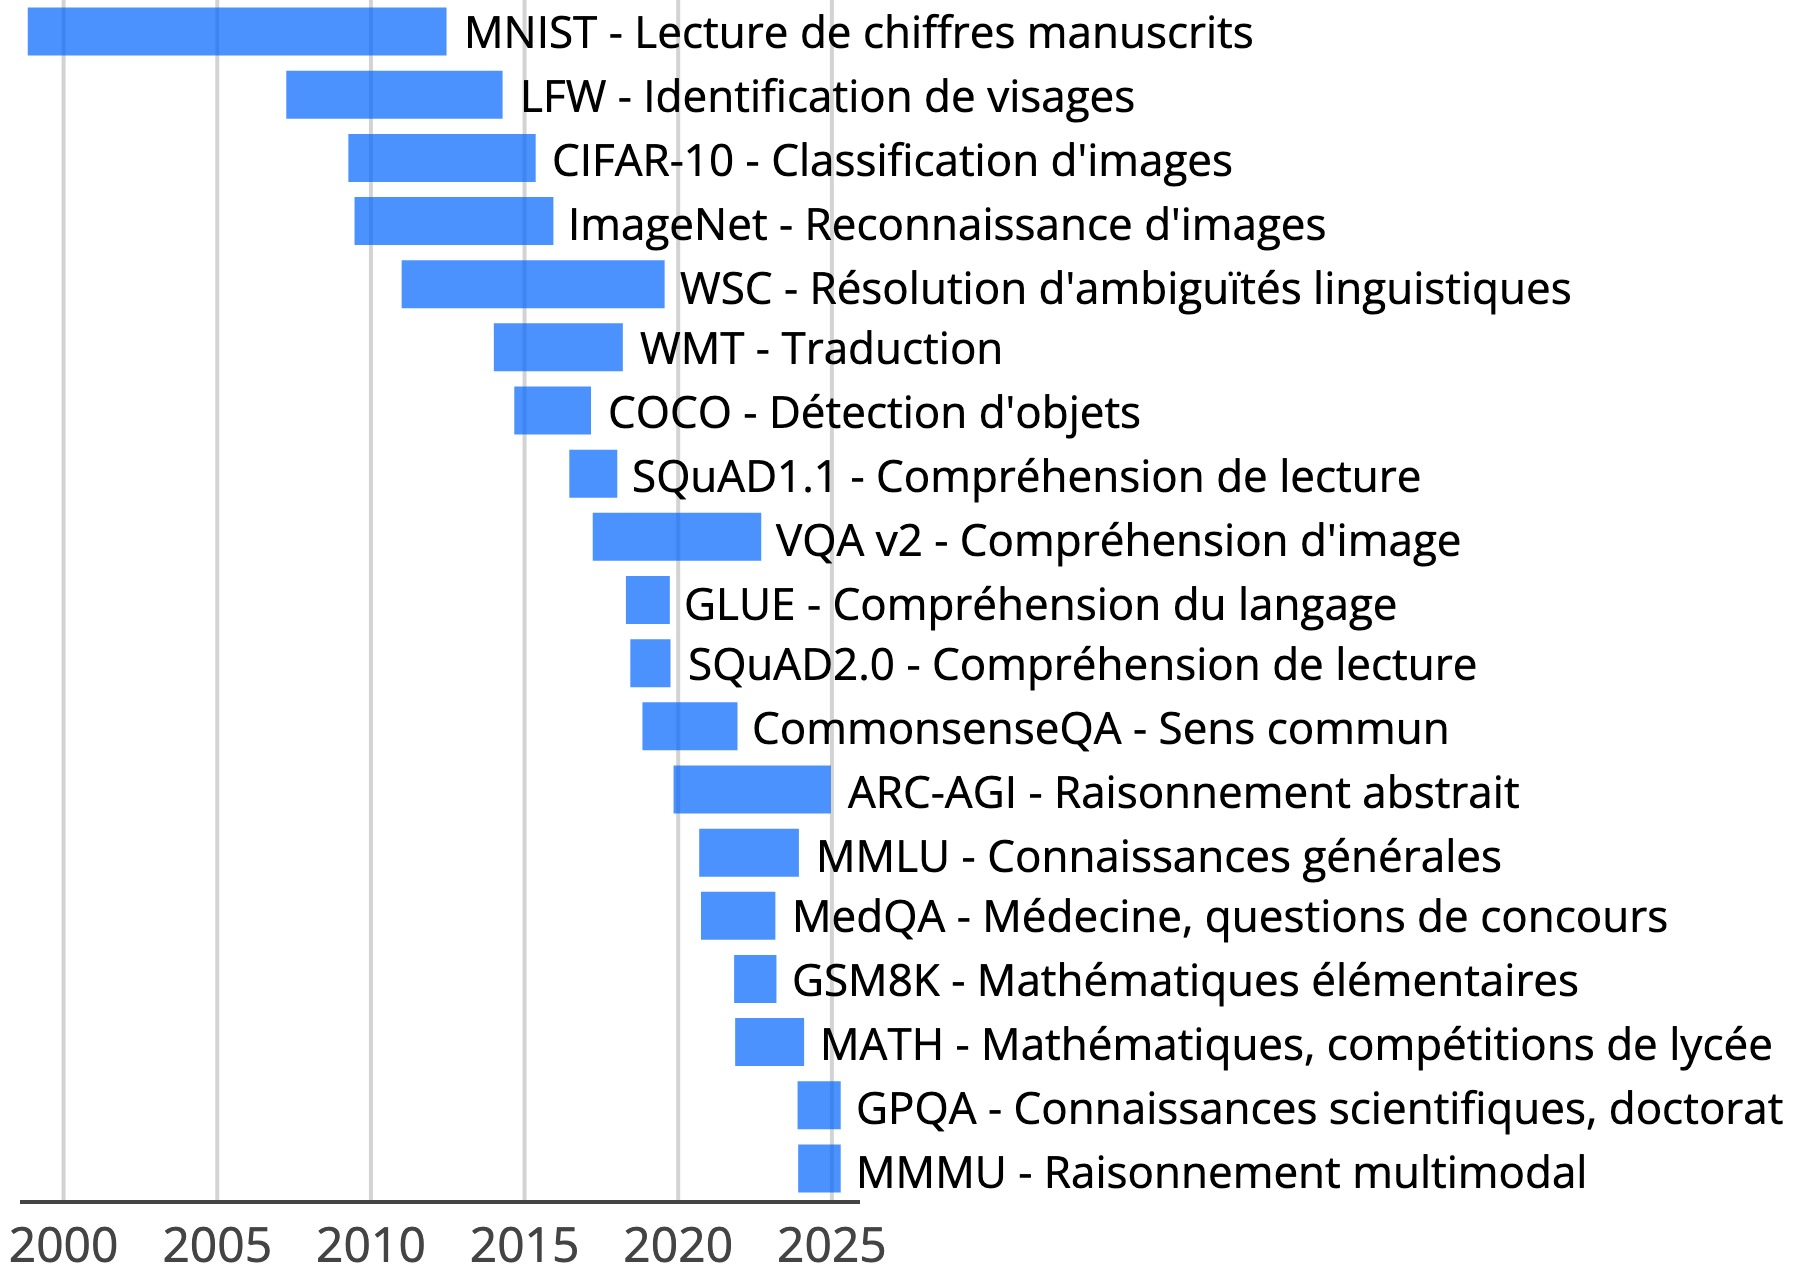
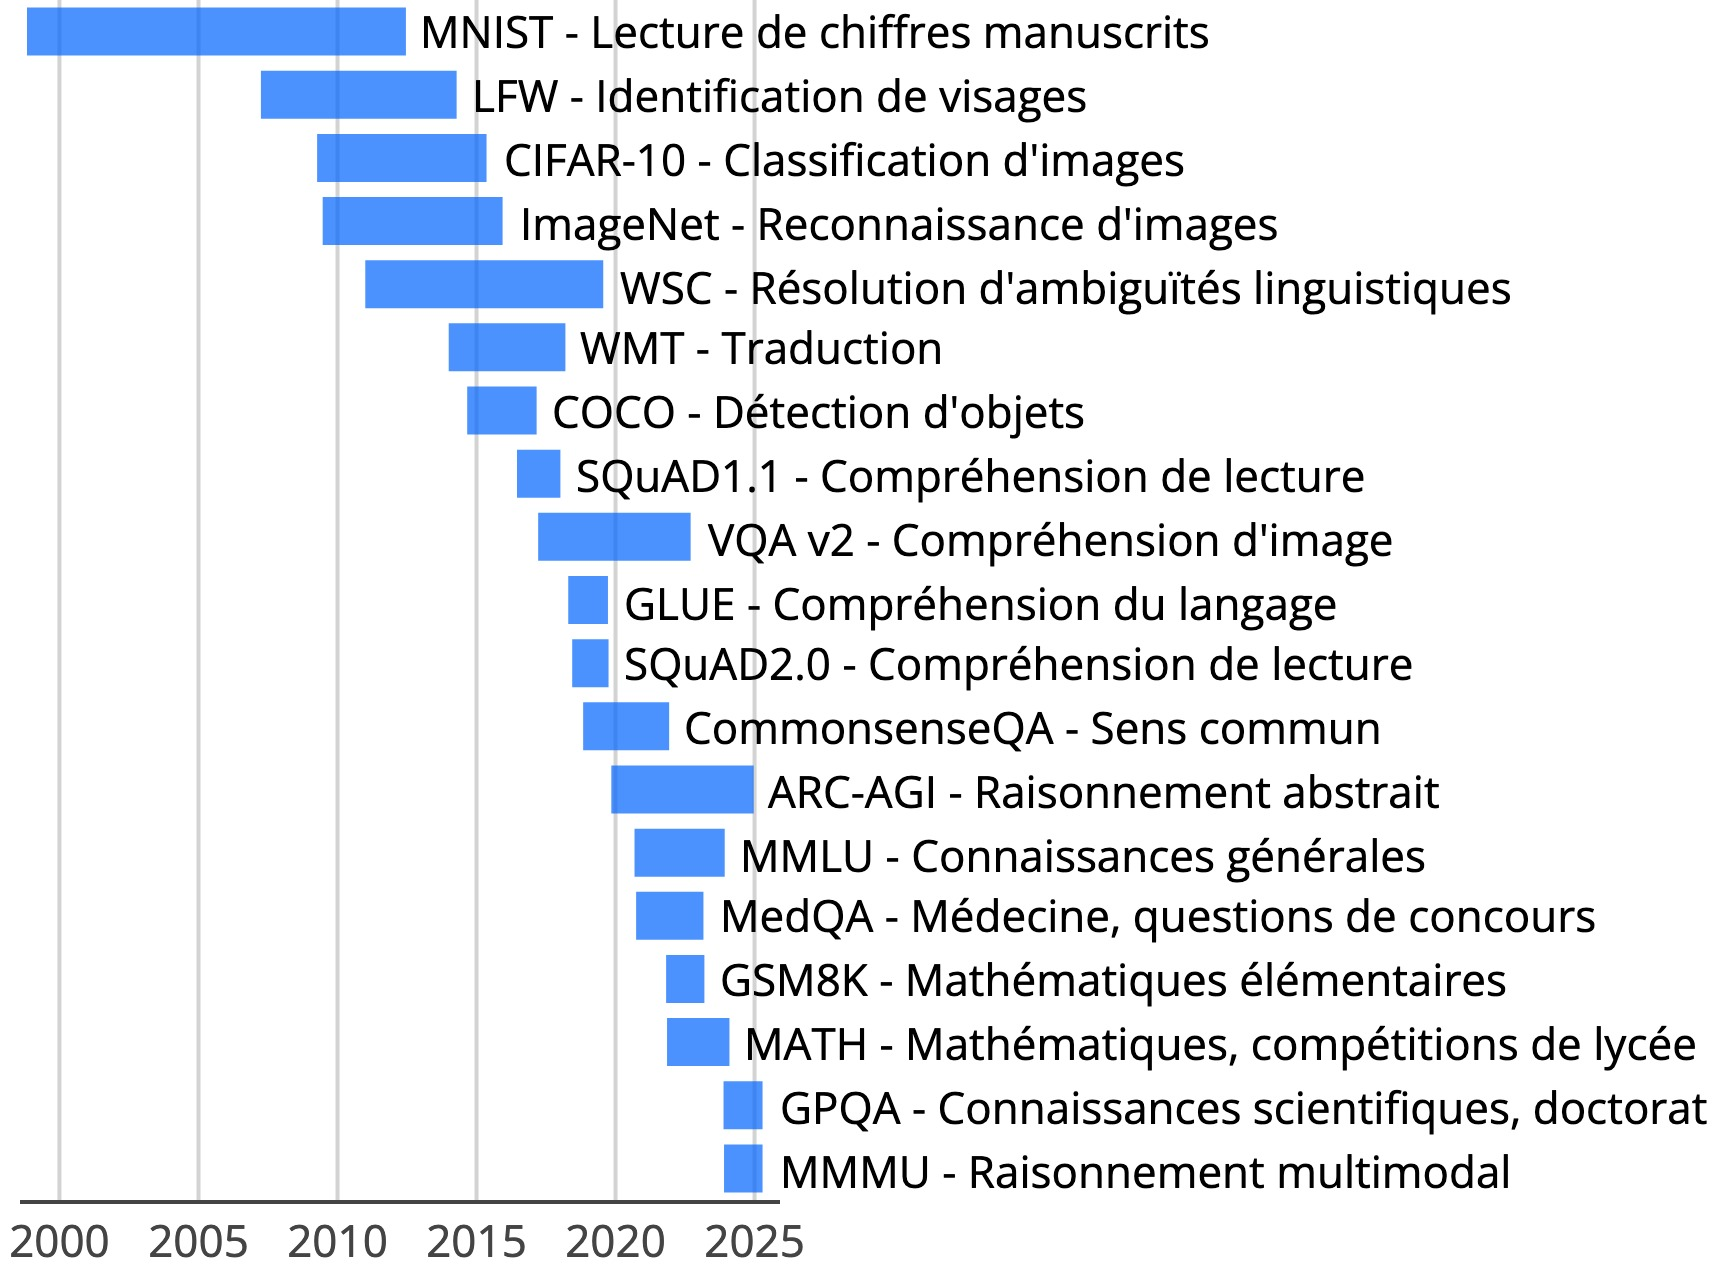
Reduce width

Changed region(s): [[0.0924, 0.0, 1.0, 1.0], [0.0, 0.9375, 0.0616, 1.0], [0.1541, 0.0625, 0.1849, 0.0938]]

diff --git a/src/graphes_livre/12_Difference_score_IA_humains/plot.py b/src/graphes_livre/12_Difference_score_IA_humains/plot.py
@@ -96,7 +96,7 @@ fig.update_layout(
     xaxis=dict(
         tickvals=[pd.to_datetime(f"{year}-01-01") for year in range_years],
         ticktext=[str(year) for year in range_years],
-        tickfont=dict(size=12),
+        tickfont=dict(size=11),
         range=[min_date - pd.DateOffset(months=3), max_date + pd.DateOffset(months=3)],
         showgrid=True,
         gridcolor="lightgray",
@@ -105,7 +105,7 @@ fig.update_layout(
     showlegend=False,
     margin=dict(l=5, t=0, b=20, r=235),
 )
-fig.write_image(get_output_path("jpg"), width=450, height=320, scale=4)
+fig.write_image(get_output_path("jpg"), width=430, height=320, scale=4)
 
 
 # NOTES - I removed:
